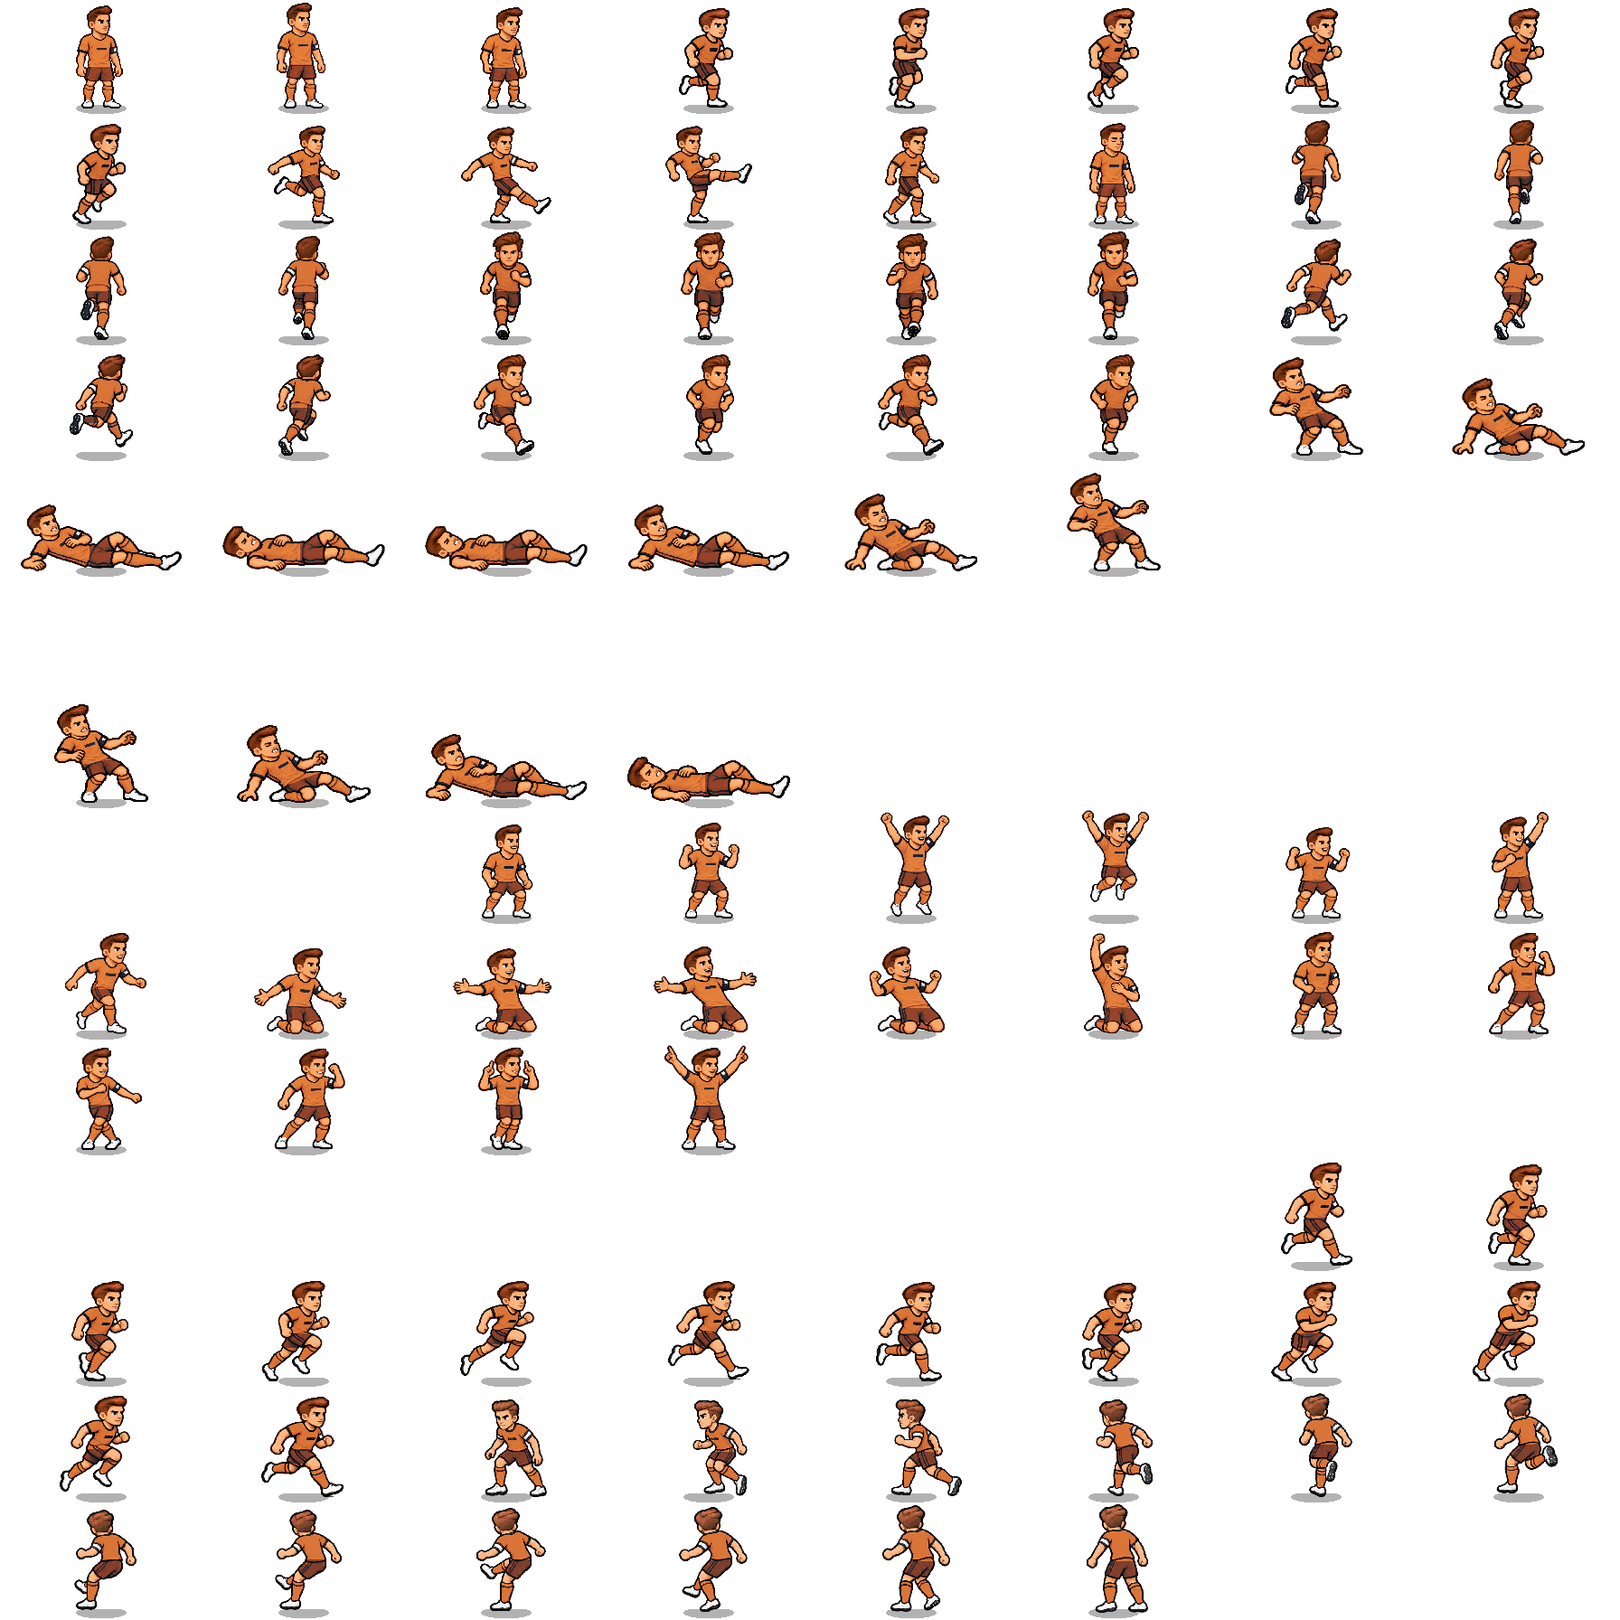
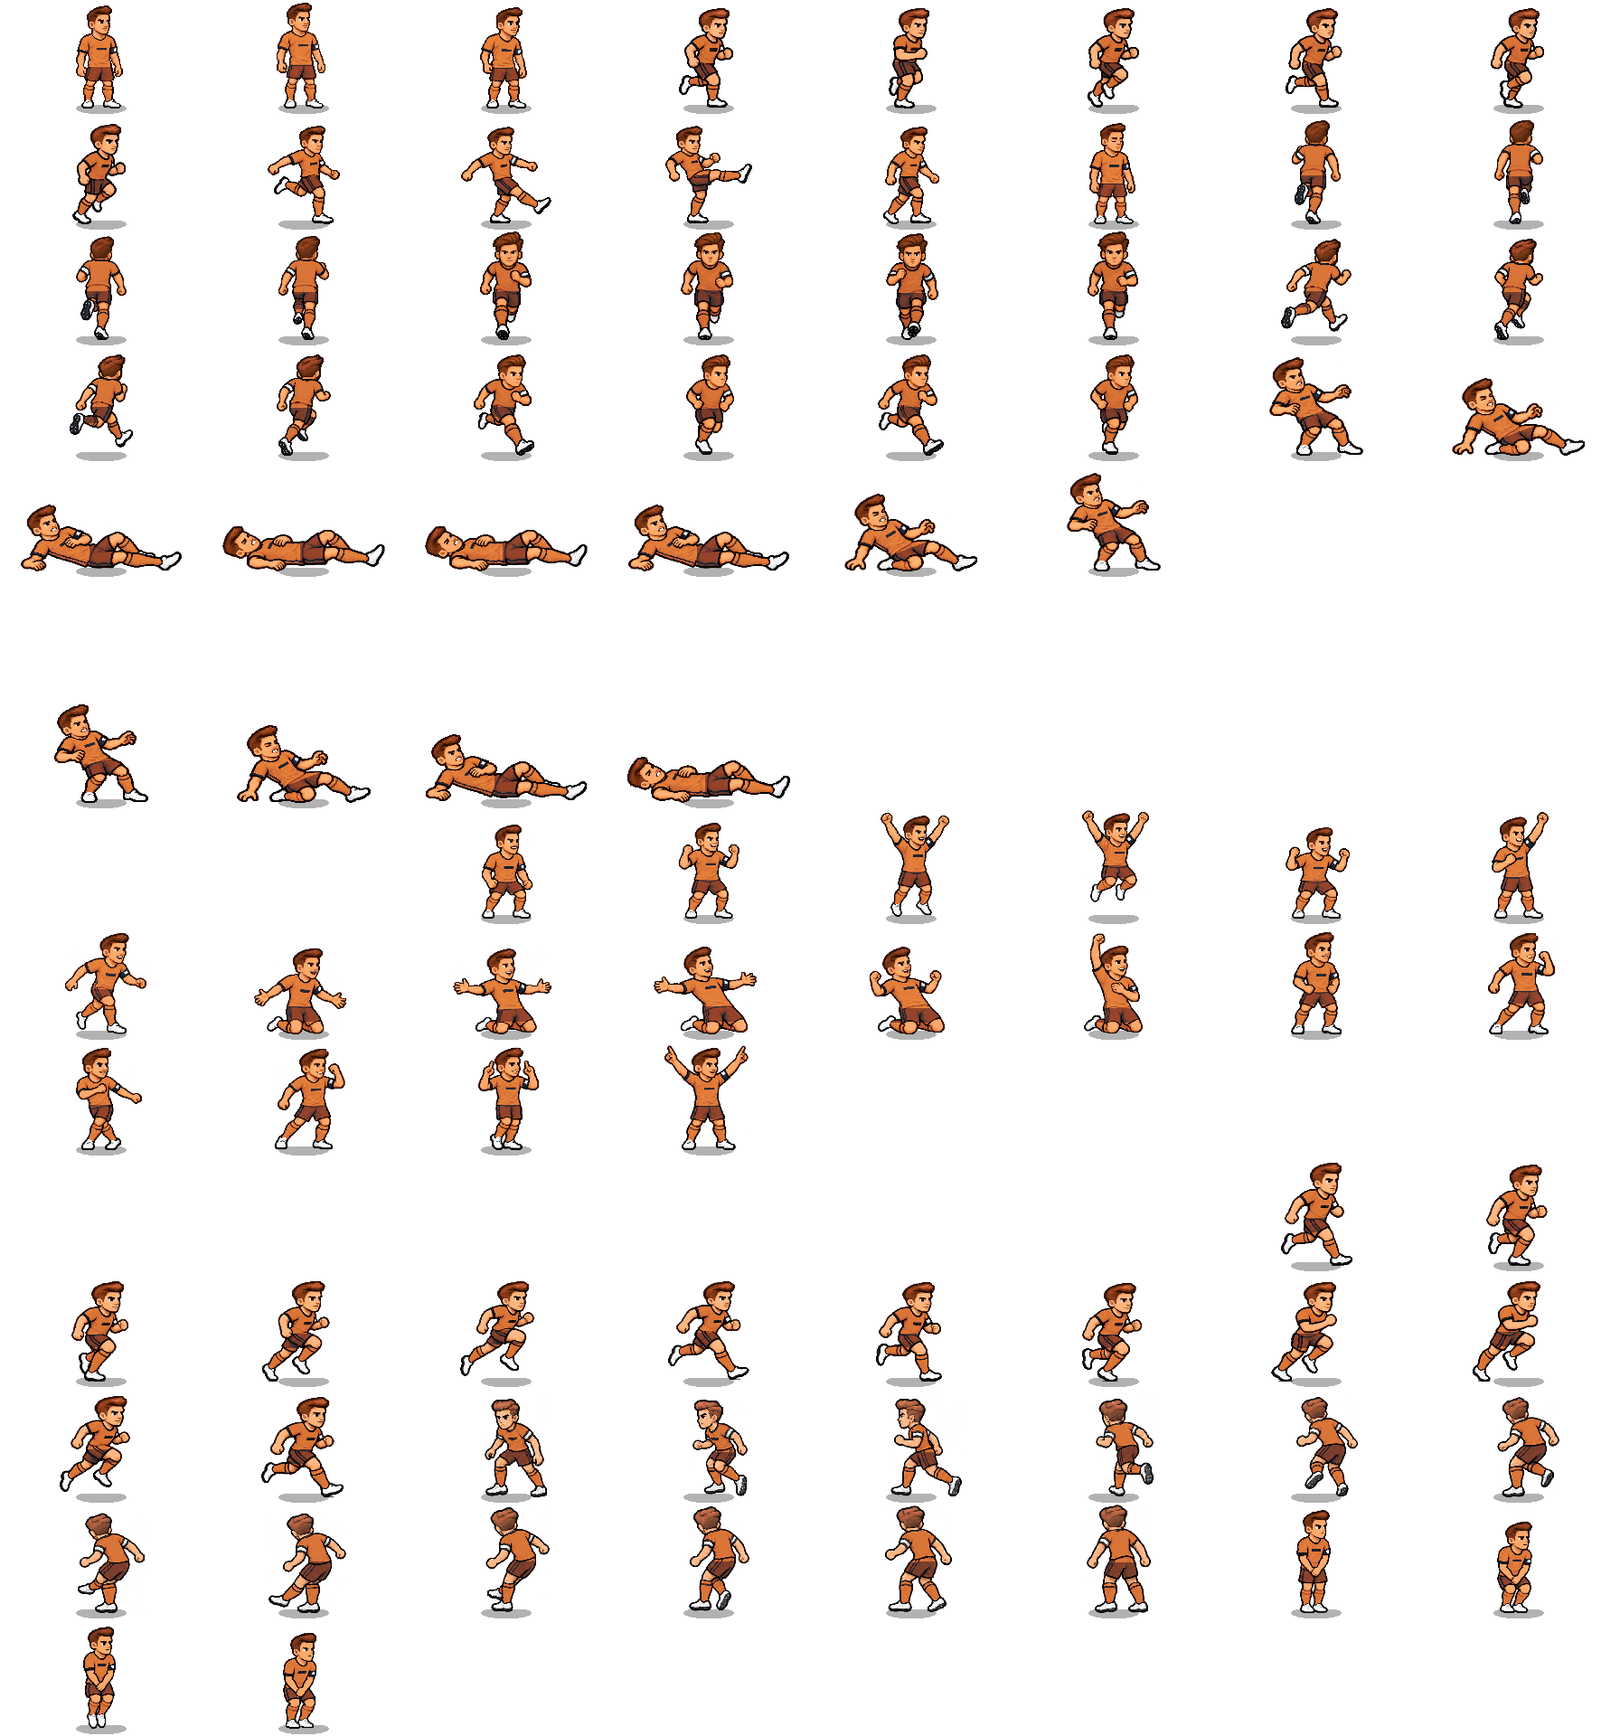
Free Kick: right-curl strike sheet mirrored for left curl, wall men animation
The strike sheet is replaced by the right-curl one; a left curl plays it
mirrored from the strike pose. Wall men get their own 4-pose sheet
(stand, take-off, air, landing), lifted by the rules' reach while jumping.
Atlases now 114 frames, re-baked and optimized.

diff --git a/src/client/art/playerSheets.ts b/src/client/art/playerSheets.ts
@@ -71,13 +71,17 @@ export const SPRINT_FRAMES = Array.from(
   { length: 12 },
   (_, i) => `sprint${i + 1}`
 );
-// Free kick strike, back view (user-supplied sheet): set facing the camera,
-// turn (2-3), run-up (4-6), plant (7), contact (8), follow-through (9-10),
-// recover (11) and stand watching (12).
+// Free kick strike, back view (user-supplied sheet, drawn as a right-curl
+// strike): set facing the camera, turn (2-3), run-up (4-5), backswing (6),
+// strike (7), follow-through (8-9), recover (10-11), stand watching (12).
 export const FREEKICK_FRAMES = Array.from(
   { length: 12 },
   (_, i) => `freekick${i + 1}`
 );
+// Free kick wall man, front view, hands covering (user-supplied sheet):
+// standing, crouched for take-off, in the air, crouched on landing. Every
+// pose stands on the ground line; the stage lifts the man while he jumps.
+export const WALL_FRAMES = Array.from({ length: 4 }, (_, i) => `wall${i + 1}`);
 
 // Every atlas (each kit and the two look layers) holds these frames in this
 // order, ATLAS_COLUMNS to a row: 8 x 224 = 1792 px wide, within the 2048 px
@@ -105,6 +109,7 @@ const FRAMES = [
   ...BLOCK_FRAMES,
   ...SPRINT_FRAMES,
   ...FREEKICK_FRAMES,
+  ...WALL_FRAMES,
 ];
 export const ATLAS_W = PLAYER_W * ATLAS_COLUMNS;
 export const ATLAS_H = PLAYER_H * Math.ceil(FRAMES.length / ATLAS_COLUMNS);
@@ -398,7 +403,8 @@ export const SOURCE_SHEETS: readonly SourceSheet[] = [
   {
     // Free kick strike (user-supplied sheet, same scale as the run: lowest
     // boot of each source row on the ground). Lines read off a preview;
-    // raised kicking legs get their own sock lines. Outfield kits only.
+    // the raised back leg of pose 4 gets its own sock line. Outfield kits
+    // only.
     file: 'player-freekick-authored',
     frames: FREEKICK_FRAMES,
     cellW: 640,
@@ -411,16 +417,28 @@ export const SOURCE_SHEETS: readonly SourceSheet[] = [
       { waist: [0, 392, 640, 392], shortsEnd: [0, 486, 640, 502] },
       { waist: [0, 395, 640, 395], shortsEnd: [0, 486, 640, 486] },
       { waist: [0, 412, 640, 392], shortsEnd: [0, 478, 640, 500] },
-      { waist: [0, 366, 640, 366], shortsEnd: [0, 495, 640, 495], socksAlso: [380, 520, 480, 420] },
-      { waist: [0, 350, 640, 350], shortsEnd: [0, 445, 640, 445] },
-      { waist: [0, 372, 640, 338], shortsEnd: [0, 470, 640, 470], socksAlso: [330, 520, 450, 400] },
-      { waist: [0, 352, 640, 340], shortsEnd: [200, 450, 640, 505] },
-      { waist: [0, 355, 640, 340], shortsEnd: [200, 440, 640, 510] },
-      { waist: [0, 345, 640, 345], shortsEnd: [0, 470, 640, 470], socksAlso: [312, 380, 312, 700] },
-      { waist: [0, 358, 640, 345], shortsEnd: [200, 440, 640, 480] },
-      { waist: [0, 356, 640, 356], shortsEnd: [0, 474, 640, 474] },
-      { waist: [0, 357, 640, 357], shortsEnd: [0, 476, 640, 476] },
+      { waist: [0, 358, 640, 358], shortsEnd: [0, 495, 640, 495], socksAlso: [380, 520, 480, 420] },
+      { waist: [0, 362, 640, 350], shortsEnd: [0, 440, 640, 480] },
+      { waist: [0, 380, 640, 342], shortsEnd: [0, 482, 640, 470] },
+      { waist: [0, 385, 640, 360], shortsEnd: [0, 485, 640, 485] },
+      { waist: [0, 375, 640, 350], shortsEnd: [0, 488, 640, 488] },
+      { waist: [0, 370, 640, 350], shortsEnd: [0, 470, 640, 470] },
+      { waist: [0, 362, 640, 352], shortsEnd: [0, 466, 640, 466] },
+      { waist: [0, 375, 640, 350], shortsEnd: [0, 480, 640, 480] },
+      { waist: [0, 362, 640, 362], shortsEnd: [0, 485, 640, 485] },
     ],
+  },
+  {
+    // Free kick wall man (user-supplied sheet, scaled so the standing pose
+    // is as tall as idle, head centred, every pose's boots on the ground).
+    file: 'player-wall-authored',
+    frames: WALL_FRAMES,
+    cellW: 352,
+    columns: 4,
+    ground: 681,
+    waist: [398, 450, 400, 427],
+    shortsEnd: [505, 525, 495, 515],
+    outfieldOnly: true,
   },
   {
     // Redrawn head; the swung-back and kicking legs get their own sock lines.

diff --git a/src/client/freekick/FreeKickScene.ts b/src/client/freekick/FreeKickScene.ts
@@ -820,7 +820,7 @@ export class FreeKickScene extends Phaser.Scene {
     stage.render(this.cam, this.setup, play, {
       ball,
       ballAge: play ? play.t : Infinity,
-      kicker: { ...this.kickerPose(), flip: this.side > 0 },
+      kicker: this.kickerPose(),
       timeSec: this.clock,
       goalFlash:
         goal && Math.floor((this.clock - this.outcomeAt) * 8) % 2 === 0,
@@ -835,8 +835,16 @@ export class FreeKickScene extends Phaser.Scene {
   }
 
   // Waiting behind and left of the ball, the run-up, the follow-through,
-  // and a celebration after a goal.
+  // and a celebration after a goal. Drawn mirrored on the ball's right; a
+  // left-curl strike (the rules' contact right of centre) flips the sprite
+  // again from the moment of the shot.
   private kickerPose() {
+    const flip = this.side > 0;
+    const curlLeft = (this.strike?.contact.x ?? 0) > 0;
+    const strike = (run: number | null, play: number | null) => {
+      const k = kickerFrame(run, play, curlLeft);
+      return { frame: k.frame, flip: flip !== k.mirror };
+    };
     const { spot } = this.setup;
     const dx = GOAL_X - spot.x;
     const dy = GOAL_Y - spot.y;
@@ -858,11 +866,11 @@ export class FreeKickScene extends Phaser.Scene {
       return {
         x: start.x + (contact.x - start.x) * run,
         y: start.y + (contact.y - start.y) * run,
-        frame: kickerFrame(t, null),
+        ...strike(t, null),
       };
     }
     const play = this.play;
-    if (!play) return { ...start, frame: kickerFrame(null, null) };
+    if (!play) return { ...start, ...strike(null, null) };
     // On after the strike along the diagonal he ran in on, easing to a stop.
     const run = Math.hypot(contact.x - start.x, contact.y - start.y) || 1;
     const follow = FK.kickerFollow * (1 - Math.exp(-Math.min(play.t, 0.4) * 9));
@@ -875,8 +883,9 @@ export class FreeKickScene extends Phaser.Scene {
       return {
         ...pose,
         frame: `celebrate_a${1 + (Math.floor(since * 6) % 6)}`,
+        flip,
       };
-    return { ...pose, frame: kickerFrame(null, play.t) };
+    return { ...pose, ...strike(null, play.t) };
   }
 
   private drawLaunchArrow(

diff --git a/src/client/freekick/Stage.ts b/src/client/freekick/Stage.ts
@@ -35,6 +35,7 @@ import {
   GOAL_X,
   GOAL_Y,
   POST_HALF,
+  wallTop,
   type KickPlay,
   type KickSetup,
 } from './rules';
@@ -85,8 +86,16 @@ class Figure {
     for (const layer of this.layers) layer.setOrigin(0.5, PLAYER_ORIGIN_Y);
   }
 
-  draw(cam: KickCamera, x: number, y: number, frame: string, flip = false) {
-    cam.project(x, y, 0, at);
+  // `z`: height the feet are lifted off the ground (a jumping wall man).
+  draw(
+    cam: KickCamera,
+    x: number,
+    y: number,
+    frame: string,
+    flip = false,
+    z = 0
+  ) {
+    cam.project(x, y, z, at);
     for (const layer of this.layers)
       layer
         .setVisible(true)
@@ -705,19 +714,26 @@ export class Stage {
       pose.kicker.flip
     );
 
-    // The wall braces, then jumps as the ball is struck.
+    // The wall stands covering up; a jumping wall crouches from the strike,
+    // rises as far as its reach does in the rules (so it blocks what it
+    // looks like it blocks) and lands crouched. A wall that stays down
+    // never moves.
     const wall = play?.wall ?? setup.wall;
     const u = (t - wall.jumpAt) / FK.wallJumpSec;
+    const takeOff = -FK.wallReactSec / FK.wallJumpSec; // the strike
     const wallFrame =
-      u < 0 || u >= 1
-        ? 'celebrate_a2'
-        : u < 0.2 || u > 0.8
-          ? 'celebrate_a3'
-          : 'celebrate_a4';
+      u < takeOff || u >= FK.wallLandUntil
+        ? 'wall1'
+        : u < FK.wallAirFrom
+          ? 'wall2'
+          : u < 1 - FK.wallAirFrom
+            ? 'wall3'
+            : 'wall4';
+    const lift = wallTop(wall, t) - FK.wallHeight;
     this.wall.forEach((man, i) => {
       const y = wall.men[i];
       if (y === undefined) man.hide();
-      else man.draw(cam, wall.x, y, wallFrame);
+      else man.draw(cam, wall.x, y, wallFrame, false, lift);
     });
     // A man lying across the back of the wall (the lying hurt pose).
     if (wall.lyer && wall.men.length > 0) {

diff --git a/src/client/freekick/kickerFrames.ts b/src/client/freekick/kickerFrames.ts
@@ -3,12 +3,21 @@ import { FREE_KICK as FK } from '../../shared/tuning';
 
 // The free kick taker's pose from the strike sheet (see FREEKICK_FRAMES):
 // pose 1 while waiting, poses 2-7 spread over the run-up (`run` 0 to 1,
-// ending on the plant), then contact, follow-through, recovery and the
-// standing watch `play` seconds after the strike.
+// ending on the strike), then follow-through, recovery and the standing
+// watch `play` seconds after the strike.
+//
+// The sheet is drawn as a right-curl strike. A left-curl kick (`curlLeft`)
+// plays the same sheet mirrored from the strike (pose 7) on: `mirror` says
+// to flip the sprite relative to the way the run-up is drawn.
 const RUNUP_POSES = 6; // freekick2 .. freekick7
 const AFTER_POSES = 5; // freekick8 .. freekick12
+const STRIKE_POSE = 6; // freekick7: the moment of the shot
 
-export function kickerFrame(run: number | null, play: number | null) {
+export function kickerFrame(
+  run: number | null,
+  play: number | null,
+  curlLeft = false
+) {
   let pose = 0;
   if (play !== null)
     pose =
@@ -17,5 +26,8 @@ export function kickerFrame(run: number | null, play: number | null) {
       Math.min(AFTER_POSES - 1, Math.floor(play / FK.strikePoseSec));
   else if (run !== null && run > 0)
     pose = 1 + Math.min(RUNUP_POSES - 1, Math.floor(run * RUNUP_POSES));
-  return FREEKICK_FRAMES[pose] ?? 'freekick1';
+  return {
+    frame: FREEKICK_FRAMES[pose] ?? 'freekick1',
+    mirror: curlLeft && pose >= STRIKE_POSE,
+  };
 }

diff --git a/src/client/freekick/preview.ts b/src/client/freekick/preview.ts
@@ -136,14 +136,20 @@ class FreeKickPreviewScene extends Phaser.Scene {
       FK.kickerStartBack + (FK.kickerContactBack - FK.kickerStartBack) * run;
     const side =
       FK.kickerStartSide + (FK.kickerContactSide - FK.kickerStartSide) * run;
+    // Mirrored on the ball's right; a left curl flips back at the strike.
+    const kick = kickerFrame(
+      run,
+      this.play?.t ?? null,
+      this.strike.contact.x > 0
+    );
     this.stage.render(this.cam, this.setup, this.play, {
       ball: this.play?.ball ?? { ...spot, z: BALL.radius },
       ballAge: this.play?.t ?? Infinity,
       kicker: {
         x: spot.x - ux * back - uy * side,
         y: spot.y - uy * back + ux * side,
-        frame: kickerFrame(run, this.play?.t ?? null),
-        flip: true,
+        frame: kick.frame,
+        flip: !kick.mirror,
       },
       timeSec: this.clock,
       goalFlash: false,

diff --git a/src/shared/tuning.ts b/src/shared/tuning.ts
@@ -957,6 +957,8 @@ export const FREE_KICK = {
   wallJumpHeight: [16, 24], // extra reach at the top of the jump, arms up (level 1, top level)
   wallJumpSec: 0.5, // time in the air
   wallReactSec: 0.06, // the wall leaves the ground this long after the strike
+  wallAirFrom: 0.15, // share of the jump drawn in the take-off crouch (and the landing crouch at its end) ...
+  wallLandUntil: 1.3, // ... and the landing crouch holds until this share of the jump time has passed
   // Wall variety (user request): it doesn't always jump, and a jumping
   // wall's feet leave a gap a low drive can slip under.
   wallJumpChance: [0.85, 0.6], // chance it jumps on a kick (level 1, top level); decided at the strike, unseen

diff --git a/project-status.md b/project-status.md
@@ -8,6 +8,11 @@ Hand-off notes for any developer or AI model picking up this project. **Update t
 
 ## Current state
 
+**Free Kick wall men animation (2026-11-11, branch `freekick-strike-animation`, uncommitted; user-supplied 4-pose sheet).** The wall no longer borrows celebration frames. New `public/art/player-wall-authored.png` (4 x 352 x 724 cells like idle): poses stand, crouch (take-off), in the air, crouch (landing); scaled 1.134 so the standing pose is as tall as idle (643 px), head centred, every pose's boots on ground 681 (the source's own small lift dropped). Plain `waist` / `shortsEnd` per pose (398/450/400/427, 505/525/495/515), `outfieldOnly`. `WALL_FRAMES` (`wall1`..`4`); atlases now 114 frames (15 rows, 1792 x 1920, still under 2048). Release art 4.00 MiB (pink 326 KiB).
+- **Stage:** `Figure.draw` takes an optional `z` lift. A wall that jumps shows wall2 from the strike, wall3 in the air, wall4 for the landing (until `wallLandUntil` 1.3 of `wallJumpSec`), switching at `wallAirFrom` 0.15 / 0.85 of the jump; it is lifted by `wallTop(wall, t) - wallHeight` (16-24 px at the top), so the head is where the rules' reach is. A wall that stays down stays in wall1. The feet are drawn lower than the rules' `wallFeetLift` 40, so a shot slipping under may look like it clips the boots; the frame's baked shadow rises with the man. Not seen in a live game.
+
+**Free Kick strike: one sheet for both curls, mirrored at the shot for left curl (2026-11-11, branch `freekick-strike-animation`, uncommitted on top of 807f674; user request).** The user supplied a second 12-pose sheet as the right-curl strike and asked to play it mirrored from the moment of the shot for left curl. It replaces `public/art/player-freekick-authored.png` (same cut: scale 1.755, head centred, row's lowest boot on 681; the first four poses match the earlier sheet), so frame names, atlas size and code paths are unchanged. New poses: 1 set, 2-3 turn, 4-5 run, 6 backswing, 7 strike, 8-9 follow-through, 10-11 recover, 12 stand. Splits re-read (only pose 4's raised leg needs `socksAlso`). `kickerFrame(run, play, curlLeft)` now returns `{ frame, mirror }`: `mirror` is true from pose 7 on when the kick curls left (the rules' `strike.contact.x > 0`, which also covers a curved swipe). The sprite's flip is `side > 0` (mirrored on the ball's right) XOR `mirror`, so the strike always turns the other way from the run-up for a left curl; the goal celebration keeps the run-up's flip. The feed-card preview cycles left / straight / right kicks, so it shows both. Release art 3.86 MiB (pink 313 KiB). Not seen in a live game.
+
 **Free Kick strike animation (2026-11-11, user-supplied 12-pose sheet):** the free kick taker now uses his own animation instead of the run up-diagonal / run up poses. New `public/art/player-freekick-authored.png` (4 x 3 cells of 640 x 724, the usual layout): poses cut from the transparent WebP, one uniform nearest-neighbour scale (1.752, the source's median figure height to the run sheet's 625.5 px), head centred in each cell (clamped inside it), the lowest boot of each source row on ground 681. Per-pose `splits` read off a shirt / shorts / socks preview, with `socksAlso` for the raised kicking legs (poses 4, 6, 9). `FREEKICK_FRAMES` (`freekick1`..`12`) are `outfieldOnly` (keeper atlases skip them). Atlases now hold 110 frames (14 rows, 1792 x 1792). Re-baked with `art:bake` and `optimize_art.py`: each outfield kit WebP grew 45-55 KiB (pink 251 to 306 KiB), keepers unchanged; release art 3.79 MiB. Checked baked in blue, red and white kits.
 - **Use (`freekick/kickerFrames.ts`, shared by the scene and the feed-card preview):** pose 1 (set, facing the camera) while aiming; poses 2-7 spread over the 0.55 s run-up (turn, run, plant); after the strike 8-12 (contact, follow-through, recover, stand) at `FREE_KICK.strikePoseSec` 0.1 each, then pose 12 holds. A goal still switches to the celebration after 0.3 s. Unflipped the sheet is a right-footer on the ball's left; on the right he is mirrored, as before.
 - Not seen in a live game (no browser gameplay tests, per the user). Note: the source draws the last back-view poses about 10% taller than the first, which the uniform scale keeps.
@@ -1051,7 +1056,8 @@ Checks the assistant can run (through WSL, since `node_modules` was installed th
 
 ## Next up
 
-- **Watch the new free kick strike animation in play:** does the set pose facing the camera, the 0.55 s run-up (6 poses) and the 0.1 s follow-through poses read well? Tune `runupSec` / `strikePoseSec` if it feels rushed.
+- **Watch the new wall animation:** does the jump read, and does a shot under a jumping wall look like it clips the boots (drawn lift 16-24 vs `wallFeetLift` 40)? If so, lift by `wallFeet` instead or lower `wallFeetLift`.
+- **Watch the new free kick strike animation in play:** does the mirror flip at the strike on a left curl look right from both sides (CHANGE SIDE)? Does the set pose facing the camera, the 0.55 s run-up (6 poses) and the 0.1 s follow-through poses read well? Tune `runupSec` / `strikePoseSec` if it feels rushed.
 - **Phone playtest of the Free Kick changes (branch `freekick-cinematic`):**
   - Is aiming comfortable with the goal up and to the left of the ball? If not, lower `cameraOrbitDeg`.
   - The kicker is a mirrored right-footer (looks left-footed); the wall can sit partly behind the power slider on central kicks.
@@ -1415,6 +1421,10 @@ Then tune from the feedback (most knobs: `LEVELS`, `AI`, `TACKLE`, `KEEPER` in `
 - **Switch boost:** 0.2 s speed boost toward the ball.
 
 ## Changelog
+
+- **2026-11-11:** Free Kick wall men get their own 4-pose animation (`player-wall-authored.png`, `WALL_FRAMES`), lifted by the rules' reach while jumping (`wallAirFrom`, `wallLandUntil`).
+
+- **2026-11-11:** Free Kick strike sheet replaced with the user's right-curl sheet; left curl plays it mirrored from the strike pose (`kickerFrame` returns `mirror`).
 
 - **2026-11-11:** Free Kick strike animation from the user's 12-pose sheet (`player-freekick-authored.png`, `FREEKICK_FRAMES`, `kickerFrames.ts`, `strikePoseSec`); atlases 110 frames, re-baked.
 
